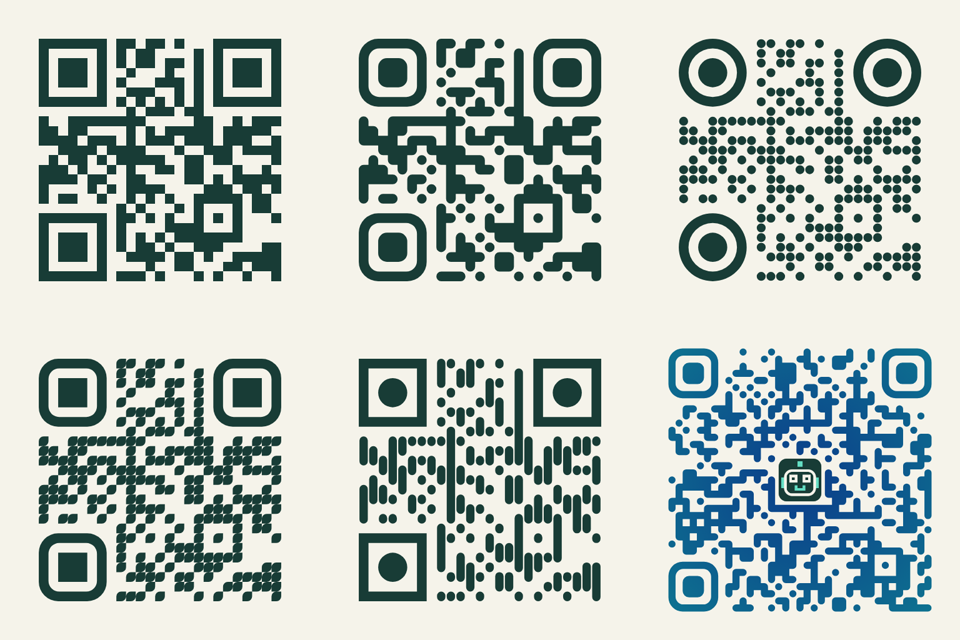
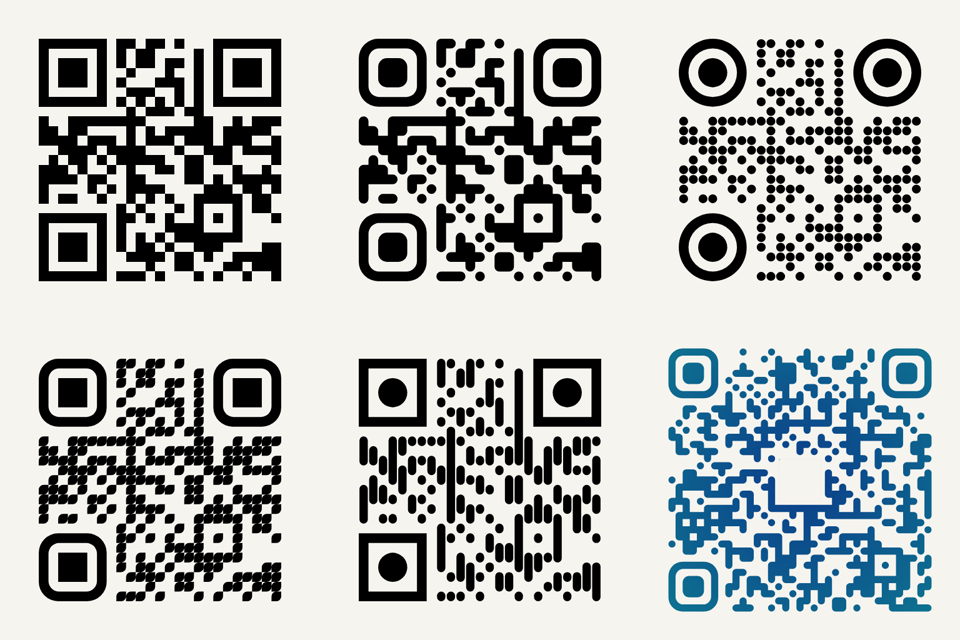
feat(app): help dialog, complete shortcuts and 404 page
Shortcuts cover types, panels, exports, tools, theme and language,
with a switch for the single-key ones (WCAG 2.1.4). Media, docs and
tests follow the new interface.

diff --git a/e2e/platform.spec.ts b/e2e/platform.spec.ts
@@ -1,6 +1,6 @@
 import AxeBuilder from '@axe-core/playwright';
 import { expect, test } from '@playwright/test';
-import { chip, decodePng, downloadPng, fillContent } from './helpers';
+import { chip, chooseLanguage, decodePng, downloadPng, fillContent, openTab } from './helpers';
 
 test('first code in under five seconds, no requests beyond the page itself, no console errors', async ({
   page,
@@ -43,19 +43,32 @@ test('production page ships the strict content security policy', async ({ page }
 
 test('interface switches language and remembers it', async ({ page }) => {
   await page.goto('./');
-  await page.locator('.lang-select').selectOption('es');
-  await expect(page.locator('h1')).toHaveText('Códigos QR que nunca salen de tu navegador.');
+  await chooseLanguage(page, 'ES');
+  await expect(page.locator('.status-tagline')).toHaveText('Tu plataforma de código QR definitiva.');
   await expect(page.locator('html')).toHaveAttribute('lang', 'es');
   await page.reload();
-  await expect(page.locator('h1')).toHaveText('Códigos QR que nunca salen de tu navegador.');
-  await page.locator('.lang-select').selectOption('pt-BR');
+  await expect(page.locator('.status-tagline')).toHaveText('Tu plataforma de código QR definitiva.');
+  await chooseLanguage(page, 'PT');
   await expect(page.getByText('Link ou texto').first()).toBeVisible();
+});
+
+test('language menu shows full names, works with the keyboard and closes with Escape', async ({ page }) => {
+  await page.goto('./');
+  const button = page.locator('.menu-btn');
+  await button.focus();
+  await page.keyboard.press('Enter');
+  await expect(page.getByRole('menuitemradio', { name: /Português \(Brasil\)/ })).toBeVisible();
+  await expect(page.getByRole('menuitemradio', { name: /English/ })).toHaveAttribute('aria-checked', 'true');
+  await page.keyboard.press('ArrowDown');
+  await page.keyboard.press('Escape');
+  await expect(page.locator('.menu')).toBeHidden();
+  await expect(button).toBeFocused();
 });
 
 test('typed content survives a language change', async ({ page }) => {
   await page.goto('./');
   await fillContent(page, 'https://example.com/keep');
-  await page.locator('.lang-select').selectOption('pt-BR');
+  await chooseLanguage(page, 'PT');
   await expect(page.locator('#f-text-content')).toHaveValue('https://example.com/keep');
   await expect(page.locator('.qr-img')).toBeVisible();
 });
@@ -63,12 +76,125 @@ test('typed content survives a language change', async ({ page }) => {
 test('theme button cycles and the choice is applied to the page', async ({ page }) => {
   await page.goto('./');
   const root = page.locator('html');
-  await page.locator('.icon-btn').click();
+  const theme = () => page.locator('.icon-btn[aria-label^="Theme"]');
+  await theme().click();
   await expect(root).toHaveAttribute('data-theme', 'light');
-  await page.locator('.icon-btn').click();
+  await theme().click();
   await expect(root).toHaveAttribute('data-theme', 'dark');
-  await page.locator('.icon-btn').click();
+  await theme().click();
   await expect(root).not.toHaveAttribute('data-theme', /.+/);
+});
+
+test('keyboard shortcuts cover types, panels, exports and app actions', async ({ page }) => {
+  await page.goto('./');
+  const selected = (name: string) => page.getByRole('tab', { name, selected: true });
+  await page.keyboard.press('2');
+  await expect(page.locator('#kind-pix')).toBeChecked();
+  await page.keyboard.press('1');
+  await expect(page.locator('#kind-text')).toBeChecked();
+  await page.keyboard.press('s');
+  await expect(selected('Style')).toBeVisible();
+  await page.keyboard.press('f');
+  await expect(selected('Frame')).toBeVisible();
+  await page.keyboard.press('c');
+  await expect(selected('Content')).toBeVisible();
+
+  await page.keyboard.press('Control+k');
+  await expect(page.locator('#f-text-content')).toBeFocused();
+  await page.keyboard.type('https://example.com/keys');
+  await expect(page.locator('.verify')).toHaveAttribute('data-state', 'ok');
+  const [png] = await Promise.all([page.waitForEvent('download'), page.keyboard.press('Control+Enter')]);
+  expect(png.suggestedFilename()).toMatch(/\.png$/);
+
+  await page.locator('.status-bar, .statusbar').click({ position: { x: 5, y: 5 } });
+  const [png2] = await Promise.all([page.waitForEvent('download'), page.keyboard.press('p')]);
+  expect(png2.suggestedFilename()).toMatch(/\.png$/);
+  const [svg] = await Promise.all([page.waitForEvent('download'), page.keyboard.press('v')]);
+  expect(svg.suggestedFilename()).toMatch(/\.svg$/);
+  await page.keyboard.press('d');
+  await expect(page.getByRole('dialog', { name: 'PDF for printing' })).toBeVisible();
+  await page.keyboard.press('Escape');
+
+  await page.keyboard.press(']');
+  await expect(page.getByRole('tab', { name: 'Batch', selected: true })).toBeVisible();
+  await page.keyboard.press('[');
+  await expect(page.getByRole('tab', { name: 'Create', selected: true })).toBeVisible();
+
+  await page.keyboard.press('t');
+  await expect(page.locator('html')).toHaveAttribute('data-theme', 'light');
+  await page.keyboard.press('l');
+  await expect(page.locator('html')).toHaveAttribute('lang', 'pt-BR');
+  await page.keyboard.press('l');
+  await expect(page.locator('html')).toHaveAttribute('lang', 'es');
+  await page.keyboard.press('l');
+  await expect(page.locator('html')).toHaveAttribute('lang', 'en');
+
+  await page.keyboard.press('h');
+  await expect(page.getByRole('dialog', { name: 'How to use CodifyQR' })).toBeVisible();
+  await page.keyboard.press('Escape');
+  await page.keyboard.press('Shift+?');
+  const dialog = page.getByRole('dialog', { name: 'Keyboard shortcuts' });
+  await expect(dialog).toBeVisible();
+  await expect(dialog.locator('kbd')).toHaveCount(await dialog.locator('kbd').count());
+  expect(await dialog.locator('kbd').count()).toBeGreaterThan(15);
+});
+
+test('single-key shortcuts can be switched off and Ctrl combinations keep working', async ({ page }) => {
+  await page.goto('./');
+  await page.keyboard.press('Shift+?');
+  await page.getByLabel('Single-key shortcuts').uncheck();
+  await page.keyboard.press('Escape');
+  await page.keyboard.press('2');
+  await expect(page.locator('#kind-text')).toBeChecked();
+  await page.keyboard.press('t');
+  await expect(page.locator('html')).not.toHaveAttribute('data-theme', /.+/);
+  await page.keyboard.press('Control+k');
+  await expect(page.locator('#f-text-content')).toBeFocused();
+  await page.reload();
+  await page.keyboard.press('2');
+  await expect(page.locator('#kind-text')).toBeChecked();
+});
+
+test('help explains the steps, tips and terms, and links to the shortcuts', async ({ page }) => {
+  await page.goto('./');
+  await page.getByRole('button', { name: 'Help' }).click();
+  const help = page.getByRole('dialog', { name: 'How to use CodifyQR' });
+  await expect(help).toBeVisible();
+  await expect(help.locator('.help-steps li')).toHaveCount(5);
+  await expect(help.getByText('Check that it reads')).toBeVisible();
+  await expect(help.getByText('Tips for printing')).toBeVisible();
+  await help.getByRole('button', { name: 'See keyboard shortcuts' }).click();
+  await expect(page.getByRole('dialog', { name: 'Keyboard shortcuts' })).toBeVisible();
+  await page.keyboard.press('Escape');
+  await expect(page.locator('dialog[open]')).toHaveCount(0);
+});
+
+test('the page fills the viewport and never scrolls, in every mode and size', async ({ browser }) => {
+  for (const [width, height] of [
+    [360, 640],
+    [390, 844],
+    [768, 1024],
+    [1280, 720],
+    [1920, 1080],
+  ]) {
+    const context = await browser.newContext({ viewport: { width: width!, height: height! }, locale: 'en-US' });
+    const page = await context.newPage();
+    await page.goto('./');
+    await fillContent(page, 'https://example.com/fit');
+    for (const mode of ['Create', 'Batch', 'Scan']) {
+      await page.getByRole('tab', { name: mode }).click();
+      const size = await page.evaluate(() => ({
+        sw: document.documentElement.scrollWidth,
+        sh: document.documentElement.scrollHeight,
+        iw: innerWidth,
+        ih: innerHeight,
+        body: getComputedStyle(document.body).overflow,
+      }));
+      expect(size.sw, `${width}x${height} ${mode} width`).toBe(size.iw);
+      expect(size.sh, `${width}x${height} ${mode} height`).toBe(size.ih);
+    }
+    await context.close();
+  }
 });
 
 for (const scheme of ['light', 'dark'] as const) {
@@ -79,8 +205,9 @@ for (const scheme of ['light', 'dark'] as const) {
     await fillContent(page, 'https://example.com');
     await expect(page.locator('.verify')).toHaveAttribute('data-state', 'ok');
     await chip(page, 'Pix').click();
-    for (const tab of ['Create', 'Batch', 'Scan']) {
-      await page.getByRole('tab', { name: tab }).click();
+    for (const tab of ['Create', 'Style', 'Frame', 'Batch', 'Scan']) {
+      if (tab === 'Style' || tab === 'Frame') await openTab(page, tab);
+      else await page.getByRole('tab', { name: tab }).click();
       const results = await new AxeBuilder({ page })
         .withTags(['wcag2a', 'wcag2aa', 'wcag21a', 'wcag21aa', 'wcag22aa'])
         .analyze();
@@ -111,6 +238,7 @@ test('works offline after the first visit', async ({ page, context }) => {
 test('a shared style link restores the look and carries no content', async ({ page, baseURL }) => {
   await page.goto('./');
   await fillContent(page, 'secret content');
+  await openTab(page, 'Style');
   await chip(page, 'Dots').first().click();
   await page.locator('#c-fg').fill('#0b3c8a');
   await page.context().grantPermissions(['clipboard-read', 'clipboard-write']);
@@ -147,10 +275,12 @@ test('hostile style data in the link is sanitized', async ({ page }) => {
 test('saved styles persist the look only', async ({ page }) => {
   await page.goto('./');
   await fillContent(page, 'private text');
+  await openTab(page, 'Style');
   await chip(page, 'Bars').first().click();
   await page.locator('#style-name').fill('Mine');
   await page.getByRole('button', { name: 'Save current style' }).click();
   await page.reload();
+  await openTab(page, 'Style');
   await expect(page.getByText('Mine')).toBeVisible();
   const stored = await page.evaluate(() => localStorage.getItem('codifyqr.styles'));
   expect(stored).not.toContain('private text');

diff --git a/e2e/content.spec.ts b/e2e/content.spec.ts
@@ -1,7 +1,7 @@
 import { readFile } from 'node:fs/promises';
 import { expect, test } from '@playwright/test';
 import { crc16, pixPayload } from '../src/payloads/pix';
-import { chip, decodePng, downloadPng, verifyState } from './helpers';
+import { chip, decodePng, downloadPng, openTab, verifyState } from './helpers';
 
 test.beforeEach(async ({ page }) => {
   await page.goto('./');
@@ -25,11 +25,22 @@ test('Pix: validates, detects the key type, and encodes a payload with a valid C
   expect(decoded!.slice(-4)).toBe(crc16(decoded!.slice(0, -4)));
 });
 
+test('Pix city is optional and becomes BRASIL', async ({ page }) => {
+  await chip(page, 'Pix').click();
+  await page.locator('#f-pix-key').fill('ana@example.com');
+  await page.locator('#f-pix-name').fill('Ana');
+  await expect(page.locator('#f-pix-city')).not.toHaveAttribute('aria-invalid', 'true');
+  await expect(page.locator('.verify')).toHaveAttribute('data-state', 'ok');
+  const decoded = await decodePng(page, await downloadPng(page));
+  expect(decoded).toBe(pixPayload({ key: 'ana@example.com', name: 'ANA', city: 'BRASIL' }));
+});
+
 test('Pix content is never written to storage', async ({ page }) => {
   await chip(page, 'Pix').click();
   await page.locator('#f-pix-key').fill('ana@example.com');
   await page.locator('#f-pix-name').fill('Ana');
   await page.locator('#f-pix-city').fill('Recife');
+  await openTab(page, 'Style');
   await page.getByRole('button', { name: 'Save current style' }).click();
   const dump = await page.evaluate(
     () => JSON.stringify({ ...localStorage }) + JSON.stringify({ ...sessionStorage }) + location.href,
@@ -93,7 +104,7 @@ test('too much content shows a clear message instead of failing', async ({ page 
 
 test('frames wrap the code and the PNG still reads', async ({ page }) => {
   await page.locator('#f-text-content').fill('https://example.com/menu');
-  await page.locator('summary', { hasText: 'Frame' }).click();
+  await openTab(page, 'Frame');
   for (const frame of ['Sticker', 'Business card', 'Table card', 'Wi-Fi sign', 'Pix payment']) {
     await chip(page, frame).click();
     await page.locator('#frame-headline').fill('Scan to see the menu');
@@ -103,6 +114,7 @@ test('frames wrap the code and the PNG still reads', async ({ page }) => {
 
 test('SVG download is a standalone vector file with the logo embedded', async ({ page }) => {
   await page.locator('#f-text-content').fill('https://example.com/vector');
+  await openTab(page, 'Style');
   await page.locator('#logo-file').setInputFiles('e2e/fixtures/logo.png');
   await expect(page.getByRole('button', { name: 'Remove logo' })).toBeVisible();
   const [download] = await Promise.all([

diff --git a/e2e/tools.spec.ts b/e2e/tools.spec.ts
@@ -26,7 +26,7 @@ test('batch turns pasted lines into a ZIP with safe unique names', async ({ page
       'https://example.com/a,Shop A\nhttps://example.com/b,Shop A\nexample.com/c\n"https://example.com/d?x=1,2",../evil',
     );
   await expect(page.getByText('4 codes')).toBeVisible();
-  await page.locator('#batch-size').selectOption('512');
+  await page.locator('label[for="batch-size-512"]').click();
   const [download] = await Promise.all([
     page.waitForEvent('download'),
     page.getByRole('button', { name: 'Create ZIP' }).click(),
@@ -45,7 +45,7 @@ test('batch accepts a CSV file and SVG output', async ({ page }) => {
     buffer: Buffer.from('content;name\nhttps://example.com/1;one\nhttps://example.com/2;two\n'),
   });
   await expect(page.getByText('2 codes')).toBeVisible();
-  await page.locator('#batch-format').selectOption('svg');
+  await page.locator('label[for="batch-format-svg"]').click();
   const [download] = await Promise.all([
     page.waitForEvent('download'),
     page.getByRole('button', { name: 'Create ZIP' }).click(),

diff --git a/e2e/helpers.ts b/e2e/helpers.ts
@@ -54,3 +54,11 @@ export async function downloadPng(page: Page): Promise<Buffer> {
   const path = await download.path();
   return (await import('node:fs/promises')).readFile(path);
 }
+
+/** Opens one of the inner tabs of the editor: Content, Style or Frame (English labels). */
+export const openTab = (page: Page, name: 'Content' | 'Style' | 'Frame') => page.getByRole('tab', { name }).click();
+
+export async function chooseLanguage(page: Page, code: 'EN' | 'PT' | 'ES'): Promise<void> {
+  await page.locator('.menu-btn').click();
+  await page.locator('.menu-item', { hasText: new RegExp(`^${code}`) }).click();
+}

diff --git a/src/app/stylestore.ts b/src/app/stylestore.ts
@@ -99,7 +99,7 @@ export function importStyleJson(text: string): QrStyle | null {
 
 export const COLOR_PRESETS: readonly { id: string; fg: string; fg2: string | null; bg: string | null }[] = [
   { id: 'ink', fg: '#111111', fg2: null, bg: '#ffffff' },
-  { id: 'press', fg: '#b12b22', fg2: null, bg: '#f3f0e7' },
+  { id: 'press', fg: '#C8231A', fg2: null, bg: '#F5F4EF' },
   { id: 'ocean', fg: '#0b3c8a', fg2: '#0e7490', bg: '#ffffff' },
   { id: 'clay', fg: '#7c2d12', fg2: '#b45309', bg: '#fff7ed' },
   { id: 'violet', fg: '#4c1d95', fg2: '#be185d', bg: '#ffffff' },

diff --git a/e2e/styles.spec.ts b/e2e/styles.spec.ts
@@ -1,11 +1,12 @@
 import { expect, test } from '@playwright/test';
-import { chip, decodePng, downloadPng, fillContent, verifyState } from './helpers';
+import { chip, decodePng, downloadPng, fillContent, openTab, verifyState } from './helpers';
 
 const TEXT = 'https://example.com/styles?id=42&name=Zoë';
 
 test.beforeEach(async ({ page }) => {
   await page.goto('./');
   await fillContent(page, TEXT);
+  await openTab(page, 'Style');
 });
 
 test('every module shape and eye style exports a readable PNG', async ({ page }) => {

diff --git a/playwright.config.ts b/playwright.config.ts
@@ -8,6 +8,7 @@ export default defineConfig({
   timeout: 60_000,
   expect: { timeout: 15_000 },
   fullyParallel: true,
+  retries: process.env.CI ? 1 : 0,
   reporter: [['list']],
   use: {
     baseURL: remote ?? 'http://localhost:4173/codifyqr/',

diff --git a/README.es.md b/README.es.md
@@ -14,6 +14,7 @@ CodifyQR es un generador de códigos QR gratuito y de código abierto que funcio
 - **Exportación**: PNG de 512 a 4096 px, SVG, PDF con el tamaño de impresión en centímetros y aviso cuando los módulos quedan bajo 0,4 mm, copiar al portapapeles, compartir.
 - **Lote**: pega líneas o importa un CSV (contenido y nombre de archivo opcional), hasta 500 filas, descargado como ZIP de archivos PNG o SVG.
 - **Lector**: lee con la cámara o desde una imagen y muestra el contenido. Nunca abre un enlace por sí solo y avisa de acortadores, dominios con caracteres parecidos, direcciones IP, `http`, credenciales incrustadas y contenido `javascript:` o `data:`.
+- **Ayuda y atajos**: una guía integrada para quien usa la herramienta por primera vez y atajos de teclado para tipos, paneles, exportaciones, tema e idioma. Los atajos de una tecla se pueden desactivar.
 - **PWA sin conexión** con temas claro y oscuro en inglés, portugués (Brasil) y español.
 
 | Estilos | Marcos |
@@ -60,7 +61,7 @@ La CI (`.github/workflows/ci.yml`) corre en cada push:
 
 - Lint y formato con Biome, TypeScript en modo estricto.
 - Pruebas unitarias (Vitest) y de extremo a extremo (Playwright, Chrome), incluidas imágenes exportadas decodificadas de vuelta a su texto, uso sin conexión, política de seguridad de contenido, traducciones y comprobaciones de accesibilidad con axe (WCAG 2.2 AA, sin violaciones graves).
-- Presupuesto de la primera carga: 60 KB gzip (`scripts/size-budget.mjs`; hoy unos 35 KB).
+- Presupuesto de la primera carga: 80 KB gzip, fuente incluida (`scripts/size-budget.mjs`; hoy unos 68 KB).
 - Metas de Lighthouse: rendimiento de al menos 95, accesibilidad, buenas prácticas y SEO en 100 (`scripts/lighthouse-check.mjs`).
 
 ## Limitaciones

diff --git a/README.pt-BR.md b/README.pt-BR.md
@@ -14,6 +14,7 @@ CodifyQR é um gerador de QR Code gratuito e de código aberto que roda inteiro 
 - **Exportação**: PNG de 512 a 4096 px, SVG, PDF com o tamanho de impressão em centímetros e aviso quando os módulos ficam abaixo de 0,4 mm, copiar para a área de transferência, compartilhar.
 - **Lote**: cole linhas ou importe um CSV (conteúdo e nome de arquivo opcional), até 500 linhas, baixado como ZIP de arquivos PNG ou SVG.
 - **Leitor**: lê pela câmera ou por imagem e mostra o conteúdo. Nunca abre um link sozinho e avisa sobre encurtadores, domínios com caracteres parecidos, endereços IP, `http`, credenciais embutidas e conteúdo `javascript:` ou `data:`.
+- **Ajuda e atalhos**: um guia embutido para quem usa pela primeira vez e atalhos de teclado para tipos, painéis, exportações, tema e idioma. Os atalhos de uma tecla podem ser desligados.
 - **PWA offline** com temas claro e escuro em inglês, português (Brasil) e espanhol.
 
 | Estilos | Molduras |
@@ -60,7 +61,7 @@ A CI (`.github/workflows/ci.yml`) roda a cada push:
 
 - Lint e formatação com Biome, TypeScript em modo estrito.
 - Testes unitários (Vitest) e ponta a ponta (Playwright, Chrome), incluindo imagens exportadas decodificadas de volta ao texto, uso offline, política de segurança de conteúdo, traduções e checagens de acessibilidade com axe (WCAG 2.2 AA, sem violações sérias).
-- Orçamento do primeiro carregamento: 60 KB gzip (`scripts/size-budget.mjs`; hoje cerca de 35 KB).
+- Orçamento do primeiro carregamento: 80 KB gzip, fonte incluída (`scripts/size-budget.mjs`; hoje cerca de 68 KB).
 - Metas do Lighthouse: desempenho de pelo menos 95, acessibilidade, boas práticas e SEO em 100 (`scripts/lighthouse-check.mjs`).
 
 ## Limitações

diff --git a/README.md b/README.md
@@ -14,6 +14,7 @@ CodifyQR is a free, open source QR code generator that runs entirely in the brow
 - **Exports**: PNG at 512 to 4096 px, SVG, PDF with the print size in centimeters and a warning when modules fall under 0.4 mm, copy to clipboard, share.
 - **Batch**: paste lines or import a CSV (content, optional file name), up to 500 rows, downloaded as a ZIP of PNG or SVG files.
 - **Reader**: scans with the camera or from an image and shows what the code contains. It never opens a link by itself and warns about URL shorteners, look-alike domains, raw IP addresses, `http`, embedded credentials, and `javascript:` or `data:` content.
+- **Help and shortcuts**: a built-in guide for first-time users and keyboard shortcuts for types, panels, exports, theme and language. Single-key shortcuts can be switched off.
 - **Offline PWA** with light and dark themes in English, Portuguese (Brazil) and Spanish.
 
 | Styles | Frames |
@@ -60,7 +61,7 @@ CI (`.github/workflows/ci.yml`) runs on every push:
 
 - Biome lint and format, TypeScript strict mode.
 - Unit tests (Vitest) and end to end tests (Playwright, Chrome), including exported images decoded back to their text, offline use, the content security policy, translations, and axe accessibility checks (WCAG 2.2 AA, no serious violations).
-- First load budget: 60 KB gzip (`scripts/size-budget.mjs`; currently about 35 KB).
+- First load budget: 80 KB gzip, font included (`scripts/size-budget.mjs`; currently about 68 KB).
 - Lighthouse thresholds: performance at least 95, accessibility, best practices and SEO at 100 (`scripts/lighthouse-check.mjs`).
 
 ## Limitations

diff --git a/CONTRIBUTING.md b/CONTRIBUTING.md
@@ -17,7 +17,7 @@ pnpm build && pnpm test:e2e
 
 - Conventional Commits in English: `type(scope): summary`, imperative, lower case, up to 50 characters.
 - One change per pull request. Add a test with every bug fix.
-- No new runtime dependency without a reason in the pull request. The first load budget is 60 KB gzip (`node scripts/size-budget.mjs dist`).
+- No new runtime dependency without a reason in the pull request. The first load budget is 80 KB gzip, font included (`node scripts/size-budget.mjs dist`).
 - The page must make no network request after it loads. The content security policy (`connect-src 'none'`) enforces this; do not loosen it.
 - Content that can be private (Pix keys, Wi-Fi passwords, contact data) never goes to storage, the URL or a log.
 

diff --git a/CHANGELOG.md b/CHANGELOG.md
@@ -1,5 +1,13 @@
 # Changelog
 
+## Unreleased
+
+- New interface: a three column workbench that fills the screen and never scrolls the page; the preview is pinned on narrow screens with a bottom bar. Pure black and paper palette with one signal red, Geist font bundled with the app, Lucide icons plus the Pix and WhatsApp marks.
+- Help dialog with steps, print tips and a glossary; complete keyboard shortcuts with a switch for single-key ones.
+- The Pix city is optional and becomes BRASIL when empty.
+- Language menu with the full language names; PNG size and batch options as segmented controls.
+- `404.html` page with the brand.
+
 ## 2.0.0 (2026-10-19)
 
 Rewrite. The project changed from a one-page tool to a PWA with its own QR engine.
